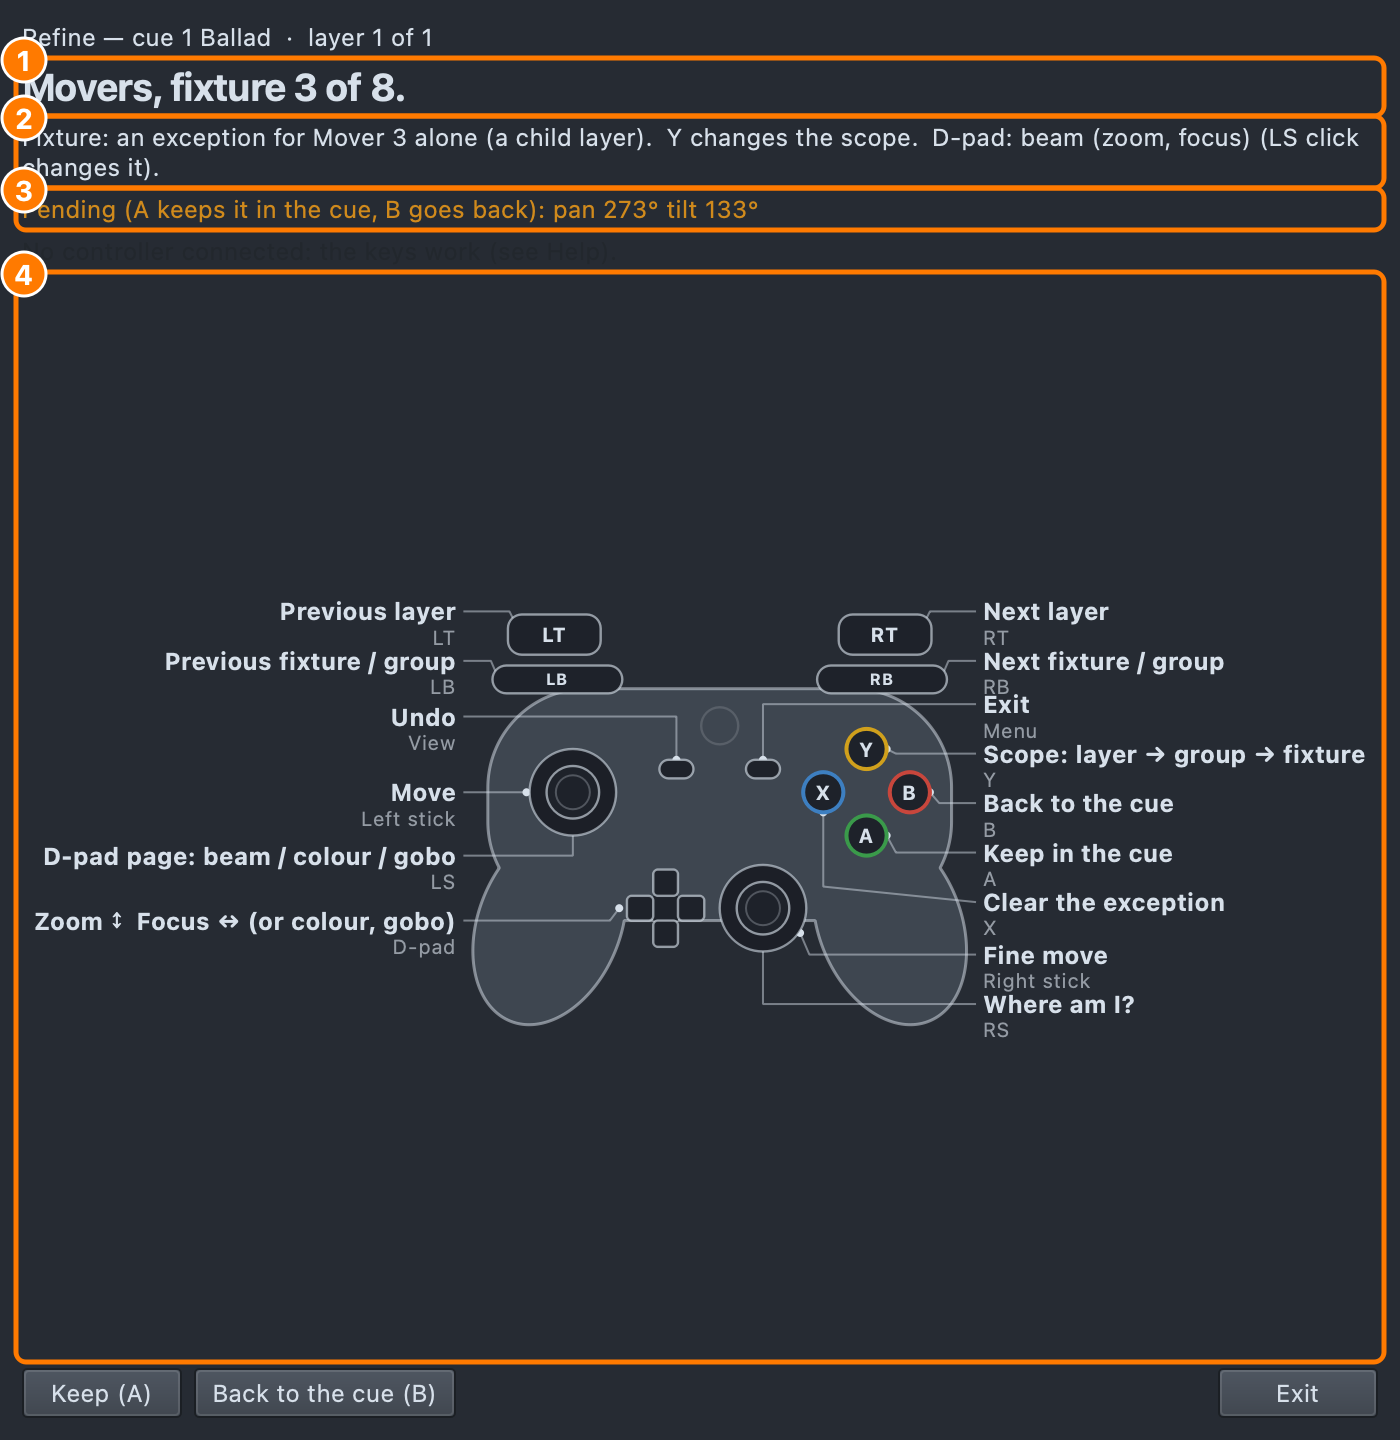
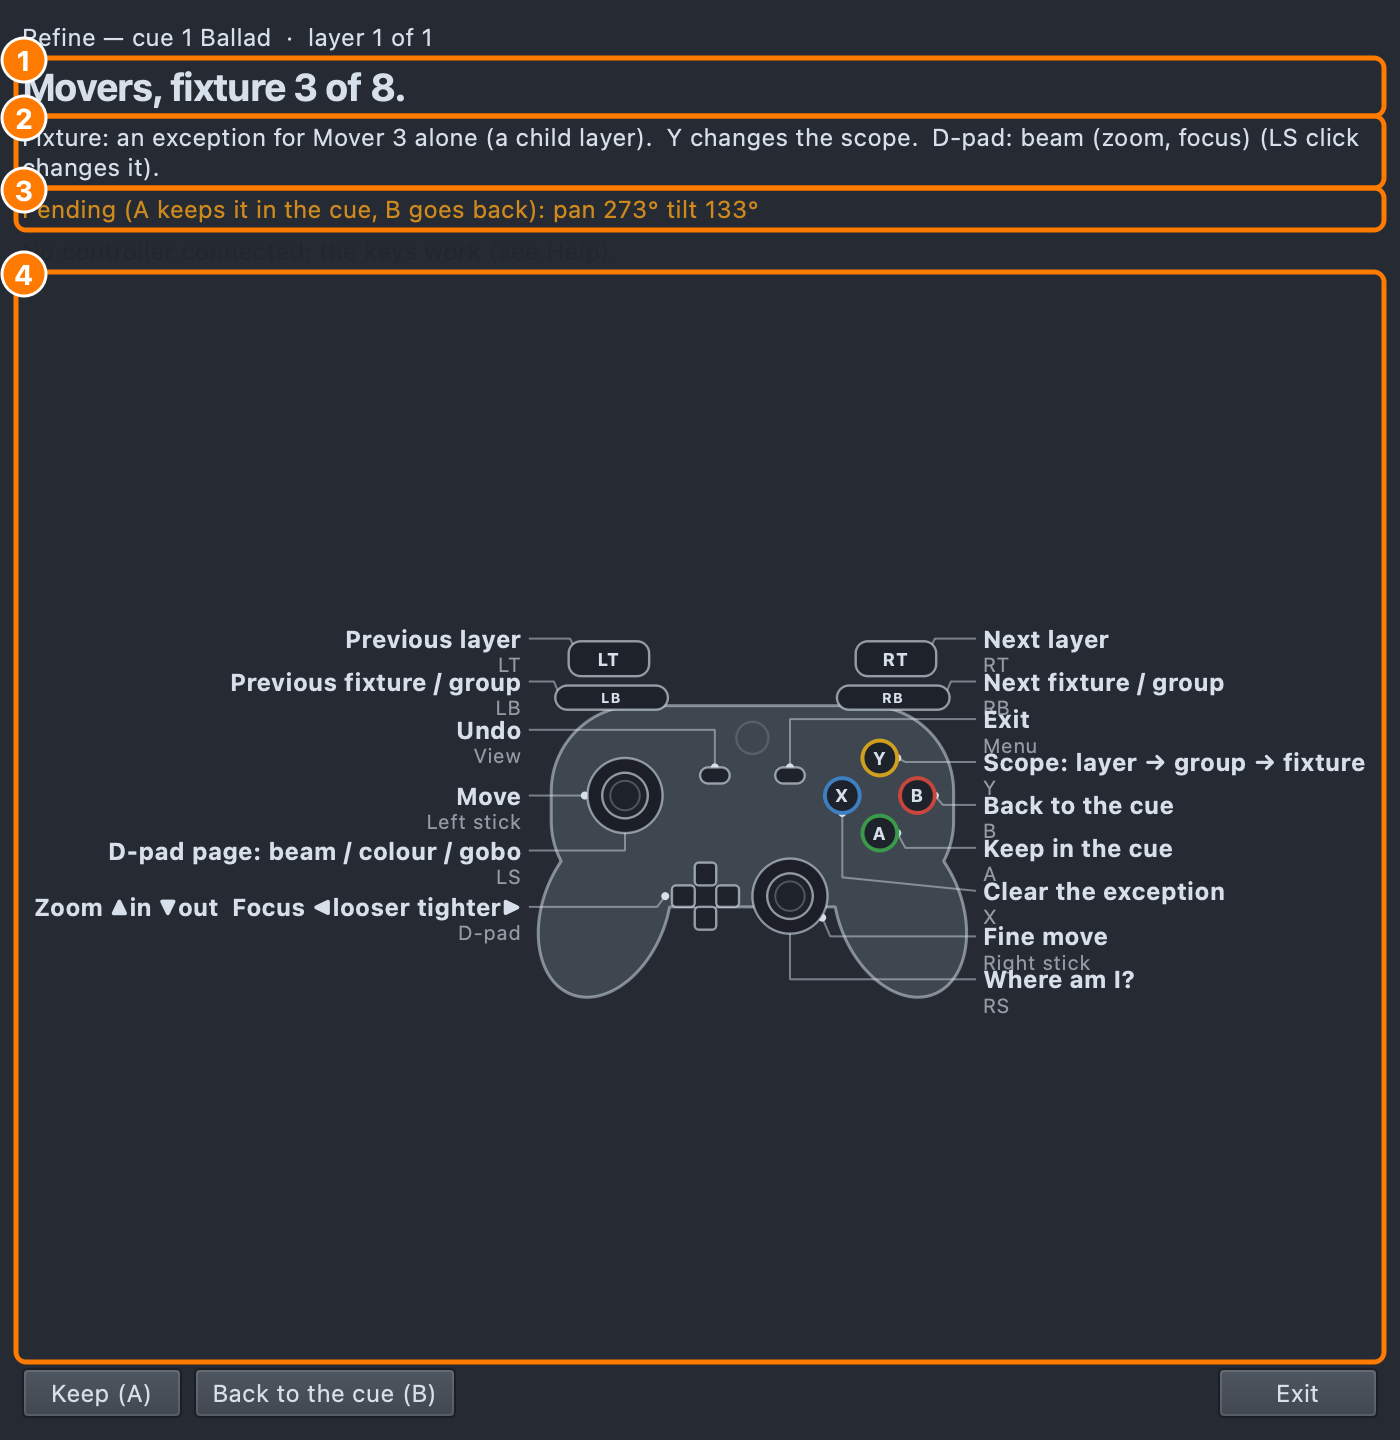
One D-pad everywhere: up zooms in, down out; right tightens the focus, left loosens
Branson: zoom reads like a camera, and right is always the focus value
up. The shared ControllerScheme now maps D-pad up to Zoom in (narrower)
and down to Zoom out (wider), right to Focus tighter and left to Focus
looser, for Focus mode, Focus calls and Refine in the Show Tree and in
Build alike (on Refine's colour and gobo pages right is the next palette,
left the one before). The map's labels are main's (74a1d1925): Zoom
up-in down-out, Focus left-looser tighter-right, Wider beam, Focus
looser / tighter. Tables in the design doc, focus-calls.md and refine.md,
the Try this steps and the two map pictures follow.

Changed region(s): [[0.0307, 0.4062, 0.9829, 0.7188]]

diff --git a/engine/src/controllerscheme.cpp b/engine/src/controllerscheme.cpp
@@ -44,8 +44,10 @@ ControllerScheme::Verb ControllerScheme::verbFor(GamepadRole::Role role)
         case GamepadRole::X:            return Reset;
         case GamepadRole::Back:         return Undo;
         case GamepadRole::Start:        return Exit;
-        case GamepadRole::DpadUp:       return ZoomWider;
-        case GamepadRole::DpadDown:     return ZoomNarrower;
+        // Branson: zoom reads like a camera (up is in); right tightens the
+        // focus (its value up), left loosens it (its value down).
+        case GamepadRole::DpadUp:       return ZoomNarrower;
+        case GamepadRole::DpadDown:     return ZoomWider;
         case GamepadRole::DpadLeft:     return FocusNearer;
         case GamepadRole::DpadRight:    return FocusFarther;
         case GamepadRole::LS:           return Alternate;
@@ -68,8 +70,8 @@ GamepadRole::Role ControllerScheme::roleFor(Verb verb)
         case Reset:         return GamepadRole::X;
         case Undo:          return GamepadRole::Back;
         case Exit:          return GamepadRole::Start;
-        case ZoomWider:     return GamepadRole::DpadUp;
-        case ZoomNarrower:  return GamepadRole::DpadDown;
+        case ZoomNarrower:  return GamepadRole::DpadUp;
+        case ZoomWider:     return GamepadRole::DpadDown;
         case FocusNearer:   return GamepadRole::DpadLeft;
         case FocusFarther:  return GamepadRole::DpadRight;
         case Alternate:     return GamepadRole::LS;
@@ -83,7 +85,7 @@ QList<ControllerScheme::Verb> ControllerScheme::verbs()
 {
     return { PreviousGroup, NextGroup, PreviousItem, NextItem, CycleScope,
              Keep, Revert, Reset, Undo, Exit,
-             ZoomWider, ZoomNarrower, FocusNearer, FocusFarther,
+             ZoomNarrower, ZoomWider, FocusNearer, FocusFarther,
              Alternate, WhereAmI };
 }
 
@@ -116,13 +118,13 @@ QString ControllerScheme::label(Tool tool, Verb verb)
         case Exit:
             return tr("Exit");
         case ZoomWider:
-            return tr("Zoom wider");
+            return tr("Zoom out (wider beam)");
         case ZoomNarrower:
-            return tr("Zoom narrower");
+            return tr("Zoom in (narrower beam)");
         case FocusNearer:
-            return tr("Focus nearer");
+            return tr("Focus looser");
         case FocusFarther:
-            return tr("Focus farther");
+            return tr("Focus tighter");
         case Alternate:
             return tool == RefineTool ? tr("D-pad page: beam / colour / gobo")
                                       : tr("Second reference");

diff --git a/ui/src/monitor/focuscontrolmap.cpp b/ui/src/monitor/focuscontrolmap.cpp
@@ -221,13 +221,16 @@ QString FocusControlMap::actionText(int role) const
             return ControllerScheme::stickLabel(m_tool, true);
         case R::DpadUp:
             // The D-pad's one callout reads its up arm: say all four.
-            return m_tool == ControllerScheme::RefineTool
-                   ? tr("Zoom \342\206\225  Focus \342\206\224 (or colour, gobo)")
-                   : tr("Zoom \342\206\225  Focus \342\206\224");
+            /* Up is in, down is out; right tightens the focus, left loosens
+               (in Refine, LS's own label says the D-pad also pages through
+               colour and gobo: here it would crowd the pad off the map). */
+            return tr("Zoom \342\226\262in \342\226\274out  Focus \342\227\200looser tighter\342\226\266");
         case R::DpadDown:
-            return tr("Narrower beam");
-        case R::DpadLeft: case R::DpadRight:
-            return tr("Focus");
+            return tr("Wider beam");
+        case R::DpadLeft:
+            return tr("Focus looser");
+        case R::DpadRight:
+            return tr("Focus tighter");
         default:
             break;
     }

diff --git a/engine/test/refinesession/refinesession_test.cpp b/engine/test/refinesession/refinesession_test.cpp
@@ -362,8 +362,9 @@ void RefineSession_Test::zoomAndFocus()
     RefineSession *r = m_doc->programmer()->refineSession();
     QVERIFY(r->start(m_cue));
 
-    r->apply(ControllerScheme::ZoomWider);
-    r->apply(ControllerScheme::ZoomWider);
+    // D-pad down twice: out, wider (up is in).
+    r->apply(ControllerScheme::verbFor(GamepadRole::DpadDown));
+    r->apply(ControllerScheme::verbFor(GamepadRole::DpadDown));
     float deg = 0.0f;
     QVERIFY(r->pendingZoom(m_spots.first(), deg));
     QCOMPARE(deg, 22.0f);
@@ -372,8 +373,8 @@ void RefineSession_Test::zoomAndFocus()
     QVERIFY(r->pendingZoom(m_spots.first(), deg));
     QCOMPARE(deg, 40.0f);
     QVERIFY(r->nudgeZoom(-15.0f));
-    // Focus from the middle (no Beam look yet).
-    r->apply(ControllerScheme::FocusFarther);
+    // Focus from the middle (no Beam look yet): right tightens, value up.
+    r->apply(ControllerScheme::verbFor(GamepadRole::DpadRight));
     int focus = 0;
     QVERIFY(r->pendingFocus(m_spots.first(), focus));
     QCOMPARE(focus, 133);

diff --git a/engine/test/focuscalls/focuscalls_test.cpp b/engine/test/focuscalls/focuscalls_test.cpp
@@ -152,6 +152,14 @@ void FocusCalls_Test::theControllerSchemeIsOneMap()
     QCOMPARE(verbFor(GamepadRole::Start), Exit);
     QCOMPARE(verbFor(GamepadRole::LS), Alternate);
     QCOMPARE(verbFor(GamepadRole::RS), WhereAmI);
+    // The D-pad: up is in, down is out; right tightens the focus (its value
+    // up), left loosens it -- in every tool.
+    QCOMPARE(verbFor(GamepadRole::DpadUp), ZoomNarrower);
+    QCOMPARE(verbFor(GamepadRole::DpadDown), ZoomWider);
+    QCOMPARE(verbFor(GamepadRole::DpadRight), FocusFarther);
+    QCOMPARE(verbFor(GamepadRole::DpadLeft), FocusNearer);
+    QCOMPARE(label(RefineTool, FocusFarther), QString("Focus tighter"));
+    QCOMPARE(label(FocusCallsTool, ZoomNarrower), QString("Zoom in (narrower beam)"));
     QCOMPARE(verbFor(GamepadRole::LeftX), NoVerb);
     // Every verb has its control, and back again.
     for (Verb v : verbs())

diff --git a/engine/src/controllerscheme.h b/engine/src/controllerscheme.h
@@ -56,8 +56,8 @@ namespace ControllerScheme
         Reset,                        ///< X: zero the correction, drop the exception
         Undo,                         ///< View/Back: undo the last keep
         Exit,                         ///< Menu/Start
-        ZoomWider, ZoomNarrower,      ///< D-pad up / down
-        FocusNearer, FocusFarther,    ///< D-pad left / right
+        ZoomWider, ZoomNarrower,      ///< D-pad down (out) / up (in)
+        FocusNearer, FocusFarther,    ///< D-pad left (looser) / right (tighter)
         Alternate,                    ///< LS click: second reference / D-pad page
         WhereAmI                      ///< RS click: say and flash where you are
     };

diff --git a/FOCUS_REFINE_DESIGN.md b/FOCUS_REFINE_DESIGN.md
@@ -26,6 +26,8 @@ pad if you have one.
    - **RB / LB** (] / [): step fixtures. The picked fixture blinks three
      times and the laptop says "Fixture 2 of 8."
    - **Left stick** (arrows): nudge.
+   - **D-pad**: up zooms in, down out (, and .); right tightens the focus,
+     left loosens it (' and ;).
    - **A** (Return): save.
    - **Y** (G): the whole call. Nudge once, and every head moves.
    - **RS click** (W): "Where am I?"
@@ -41,7 +43,9 @@ pad if you have one.
    - Move with the stick (arrows) and the lights follow. **A** (Return)
      keeps the change: one undo step. **Y** (G) goes to one fixture; a move
      there is an exception, a child layer in the tree. **X** (0) clears it.
-   - **LS click** (P) changes the D-pad to colour and then gobo palettes.
+   - **D-pad**: up zooms in, down out; right tightens the focus, left
+     loosens it. **LS click** (P) changes the D-pad to colour and then gobo
+     palettes (right: the next, left: the one before).
 5. **A tracked layer.** Add a cue after it that sets nothing and Refine
    that. The voice says "Movers, tracked from 1. Keeps go into this cue."
    **S** on the panel switches to keeping in cue 1.
@@ -130,8 +134,8 @@ does the same **kind** of thing in every tool:
 | **Y** | Cycle scope | One head ↔ all heads | **Fixture ↔ whole call** | **Layer → Group → Fixture** (Group only when the layer has more than one group) |
 | **Left stick** | Move / nudge (coarse) | Calibration pan/tilt, 8°/s | Calibration pan/tilt, 8°/s. A fixed light moves where it lands. | The cue's **position**, 8°/s |
 | **Right stick** | Fine | 1°/s | 1°/s | 1°/s |
-| **D-pad ↑ / ↓** | Zoom wider / narrower | Lens (hand zoom: saved) or zoom channel (live only) | same | The cue's **zoom** (on the colour/gobo pages: nothing) |
-| **D-pad ← / →** | Focus nearer / farther | Focus channel, live only | same | The cue's **focus**. On the colour/gobo pages: previous / next palette. |
+| **D-pad ↑ / ↓** | Zoom **in** (narrower) / **out** (wider): up is in, like a camera | Lens (hand zoom: saved) or zoom channel (live only) | same | The cue's **zoom** (on the colour/gobo pages: nothing) |
+| **D-pad → / ←** | Focus **tighter** (value up) / **looser** (value down): right is always the value up | Focus channel, live only | same | The cue's **focus**. On the colour/gobo pages: next / previous palette. |
 | **A** | Keep | Save the head's offsets | **Save for this venue** (sidecar, at once) | **Keep in the cue** (one Show Tree step) |
 | **B** | Revert | Back to saved | Back to saved | **Back to the cue** (drops pending) |
 | **X** | Reset | Zero the offsets | Zero the offsets | **Clear the exception** (Group/Fixture). At Layer scope it is the same as B. |
@@ -614,7 +618,7 @@ Tests:
 │ Undo save ───────────┤  [LB]     [RB]  ├── Exit                     │
 │ Nudge ───────────────┤ ( L )   ○ Y  ───┼── Scope: group ↔ fixture   │
 │ Second reference ────┤  (LS)  ○X ○B ───┼── Revert                   │
-│ Zoom ↕ Focus ↔ ──────┤  ✚       ○A ───┼── Save for this venue      │
+│ Zoom ▲in▼out Focus ◀▶┤  ✚       ○A ───┼── Save for this venue      │
 │                      └──────( R )──────┼── Fine nudge               │
 │                                 (RS) ──┴── Where am I?              │
 │                                                            [ Exit ] │
@@ -638,7 +642,7 @@ Tests:
 │ Undo ────────────────┤  [LB]     [RB]  ├── Exit                     │
 │ Move ────────────────┤ ( L )   ○ Y  ───┼── Scope: layer→group→fix.  │
 │ D-pad page ──────────┤  (LS)  ○X ○B ───┼── Back to the cue          │
-│ Zoom ↕ Focus ↔ (or   ┤  ✚       ○A ───┼── Keep in the cue          │
+│ Zoom ▲in▼out Focus ◀▶┤  ✚       ○A ───┼── Keep in the cue          │
 │  colour, gobo) ──────┘  ────( R )──────┼── Fine move                │
 │                                 (RS) ──┴── Where am I?              │
 │ [Keep (A)]  [Back to the cue (B)]                          [ Exit ] │
@@ -653,7 +657,7 @@ Tests:
      ┌──────────────────────────────────────────────────────────┐
      │  (L) nudge / move         Y  scope                       │
      │  click: 2nd ref / page  X  reset      B  back            │
-     │   ✚ zoom ↕ focus ↔          A  KEEP                      │
+     │   ✚ ▲in▼out, ◀looser tighter▶  A  KEEP                   │
      │            (R) fine; click: WHERE AM I?                  │
      │      View: undo                Menu: exit                │
      └──────────────────────────────────────────────────────────┘

diff --git a/docs/features/refine.md b/docs/features/refine.md
@@ -66,8 +66,8 @@ scope picks the first fixture.
 | Next / previous fixture (or group) | RB / LB | ] / [ |
 | Scope: layer → group → fixture | Y | G |
 | Move (coarse, fine) | Left stick, right stick | Arrows (⇧: 5°) |
-| Zoom wider / narrower | D-pad up / down | . / , |
-| Focus nearer / farther | D-pad left / right | ; / ' |
+| Zoom in / out | D-pad up / down | , / . |
+| Focus tighter / looser | D-pad right / left | ' / ; |
 | D-pad page: beam / colour / gobo | LS (left stick click) | P |
 | Keep in the cue | A | Return |
 | Back to the cue | B | Backspace |
@@ -76,8 +76,9 @@ scope picks the first fixture.
 | Where am I? | RS (right stick click) | W |
 | Leave | Menu | Esc |
 
-On the **colour** and **gobo** pages, D-pad left and right step through
-the show's colour or gobo palettes and say the name of each.
+Up is in, down is out; right tightens the focus and left loosens it,
+here as in Focus mode. On the **colour** and **gobo** pages, D-pad right
+and left step forward and back through the show's colour or gobo palettes and say the name of each.
 
 What you change is **pending**: the rig shows it at once, but the cue is
 not changed until **A**. Then everything pending is kept as **one** Show

diff --git a/docs/features/focus-calls.md b/docs/features/focus-calls.md
@@ -91,8 +91,8 @@ fixture, the scope, and where saves go.
 | Next / previous fixture | RB / LB | ] / [ |
 | One fixture / the whole call (scope) | Y | G |
 | Nudge (coarse, fine) | Left stick, right stick | Arrows (⇧: 1°) |
-| Zoom wider / narrower | D-pad up / down | . / , |
-| Focus nearer / farther | D-pad left / right | ; / ' |
+| Zoom in / out | D-pad up / down | , / . |
+| Focus tighter / looser | D-pad right / left | ' / ; |
 | Save for this venue | A | Return |
 | Back to what was saved | B | Backspace |
 | Zero | X | 0 |
